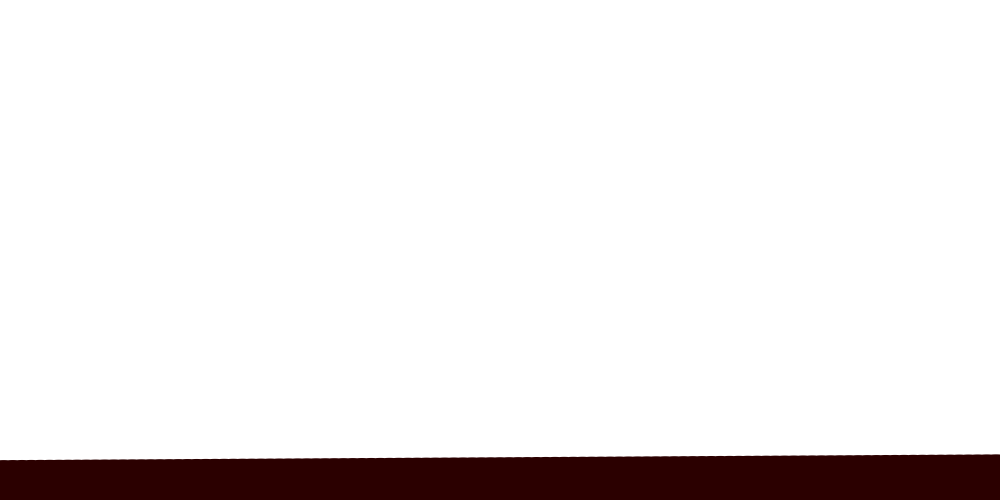
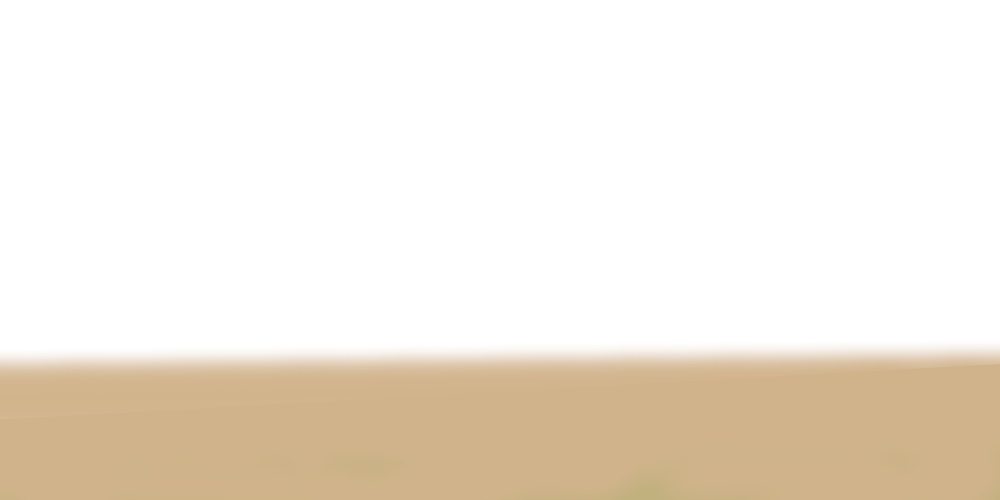
new background images

Changed region(s): [[0.0, 0.69, 1.0, 1.0]]

diff --git a/backgrounds.py b/backgrounds.py
@@ -11,10 +11,10 @@ class Background:
     def __init__(self,x,y,screenWidth,screenHeight):
         self.x = x
         self.y = y
-        self.x0 = x
-        self.x1 = x
-        self.x2 = x
-        self.x3 = x
+        self.layer0_x = x
+        self.layer1_x = x
+        self.layer2_x = x
+        self.layer3_x = x
         self.size = self.width,self.height = screenWidth,screenHeight
         self.images = []
         for x in range(len(BACKGROUNDS_AVAILABLE)):
@@ -32,43 +32,57 @@ class Background:
 
     def move(self):
         if self.direction == 1:
-            self.x0 += 1
-            self.x1 += 1.5
-            self.x2 += 2
-            self.x3 += 2.5
+            self.layer0_x += .55
+            self.layer1_x += 1
+            self.layer2_x += 1.5
+            self.layer3_x += 2.5
         elif self.direction == -1:
-            self.x0 -= 1
-            self.x1 -= 1.5
-            self.x2 -= 2
-            self.x3 -= 2.5
+            self.layer0_x -= .55
+            self.layer1_x -= 1
+            self.layer2_x -= 1.5
+            self.layer3_x -= 2.5
         
         elif self.direction == 0:
-            self.x0 = self.x0 + 0
-            self.x1 = self.x1 + 0
-            self.x2 = self.x2
-            self.x3 = self.x3
+            self.layer0_x = self.layer0_x + 0
+            self.layer1_x = self.layer1_x + 0
+            self.layer2_x = self.layer2_x
+            self.layer3_x = self.layer3_x
 
-        if self.x0 > self.width:
-            self.x0 = 0
-        elif self.x1 > self.width:
-            self.x1 = 0
-        elif self.x2 > self.width:
-            self.x2 = 0
-        elif self.x3 > self.width:
-            self.x3 = 0
+        if self.layer0_x > self.width:
+            self.layer0_x = 0
+        if self.layer0_x < 0:
+            self.layer0_x = self.width
 
+        if self.layer1_x > self.width:
+            self.layer1_x = 0
+        if self.layer1_x < 0:
+            self.layer1_x = self.width
+
+        if self.layer2_x > self.width:
+            self.layer2_x = 0
+        if self.layer2_x < 0:
+            self.layer0_2 = self.width
+
+        if self.layer3_x > self.width:
+            self.layer3_x = 0
+        if self.layer3_x < 0:
+            self.layer3_x = self.width
 
     def draw(self,window):
         self.move()
-        window.blit(self.image0,(self.x0,self.y))
-        window.blit(self.image0,(self.x0-self.width,self.y))
+        window.blit(self.image0,(self.layer0_x,self.y))
+        window.blit(self.image0,(self.layer0_x-self.width,self.y))
+        window.blit(self.image0,(self.layer0_x-self.width*2,self.y))
         
-        window.blit(self.image1,(self.x1,self.y))
-        window.blit(self.image1,(self.x1-self.width,self.y))
+        window.blit(self.image1,(self.layer1_x,self.y))
+        window.blit(self.image1,(self.layer1_x-self.width,self.y))
+        window.blit(self.image1,(self.layer1_x-self.width*2,self.y))
         
-        window.blit(self.image2,(self.x2,self.y))
-        window.blit(self.image2,(self.x2-self.width,self.y))
+        window.blit(self.image2,(self.layer2_x,self.y))
+        window.blit(self.image2,(self.layer2_x-self.width,self.y))
+        window.blit(self.image2,(self.layer2_x-self.width*2,self.y))
 
-        window.blit(self.image3,(self.x3,self.y))
-        window.blit(self.image3,(self.x3-self.width,self.y))
+        window.blit(self.image3,(self.layer3_x,self.y))
+        window.blit(self.image3,(self.layer3_x-self.width,self.y))
+        window.blit(self.image3,(self.layer3_x-self.width*2,self.y))
         # print('BG:',self.image)
